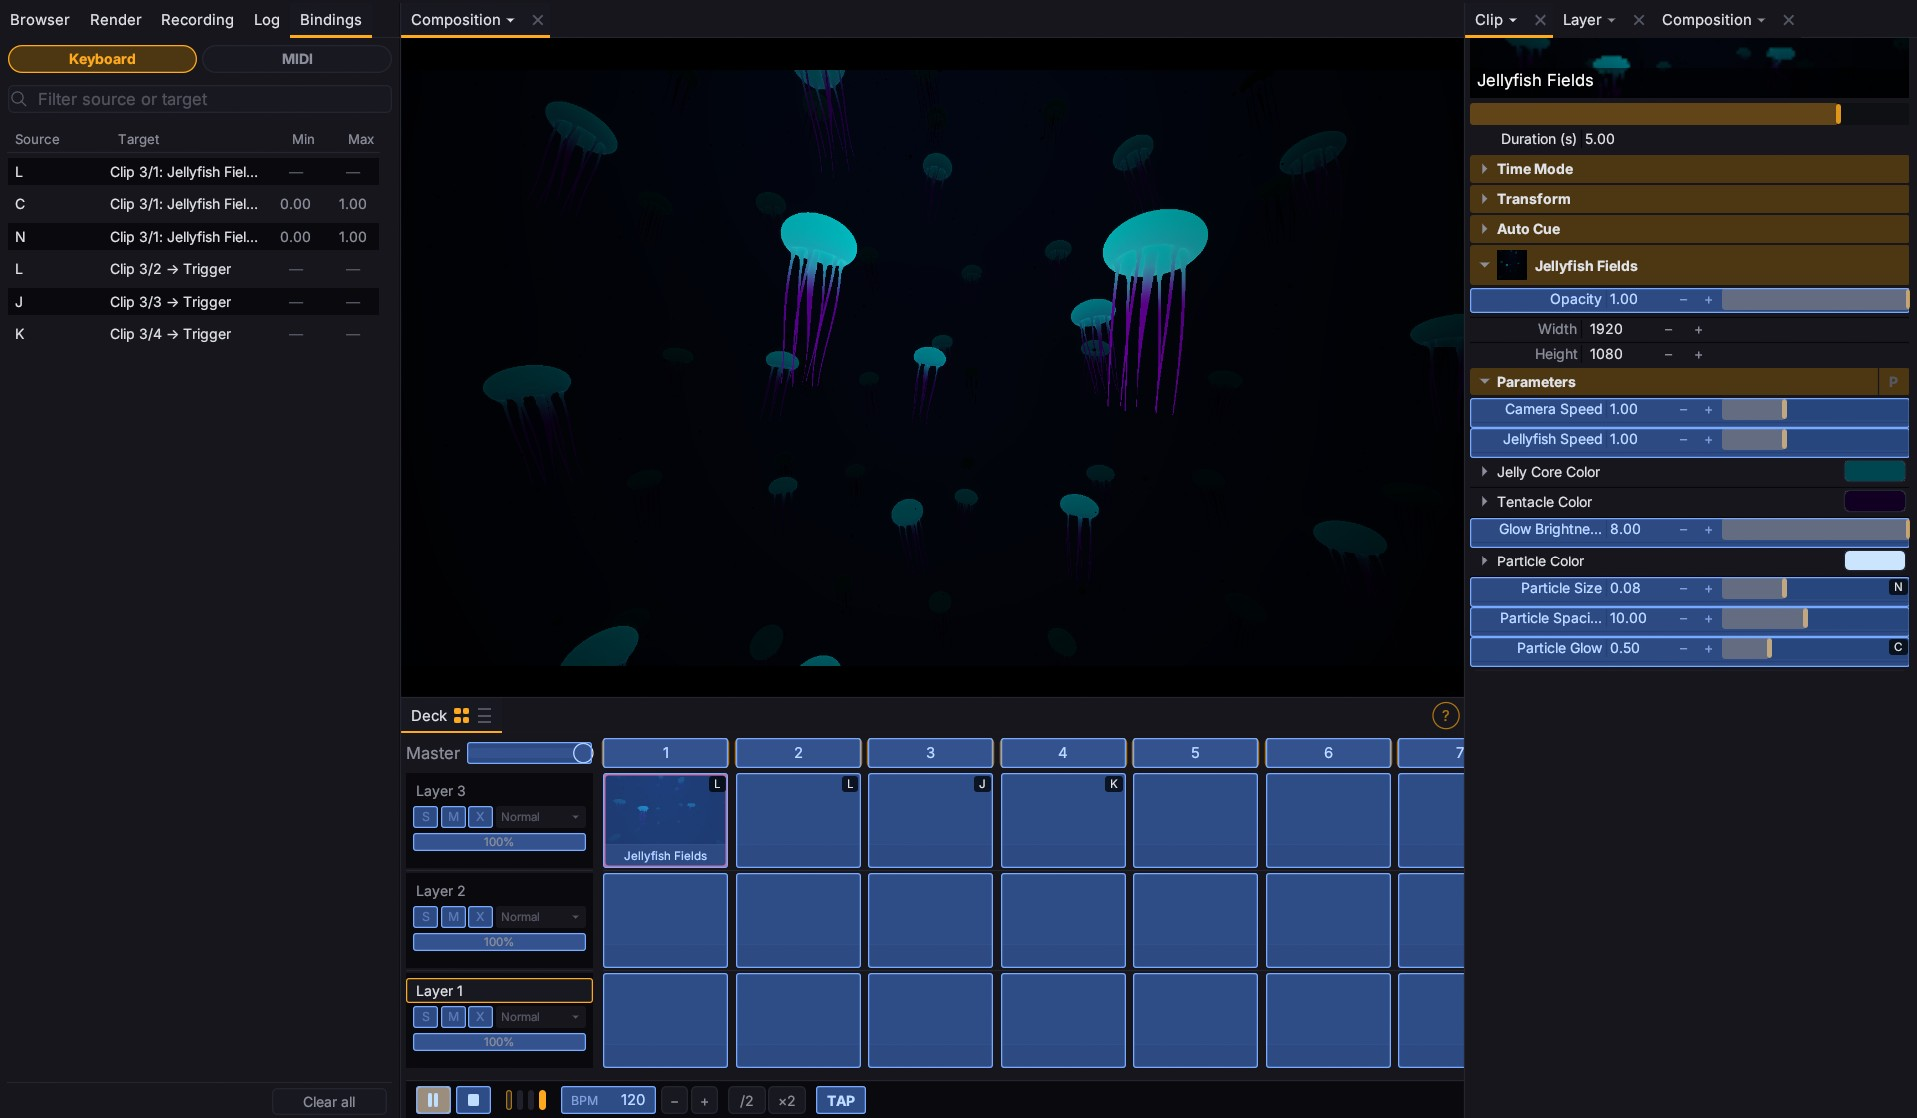
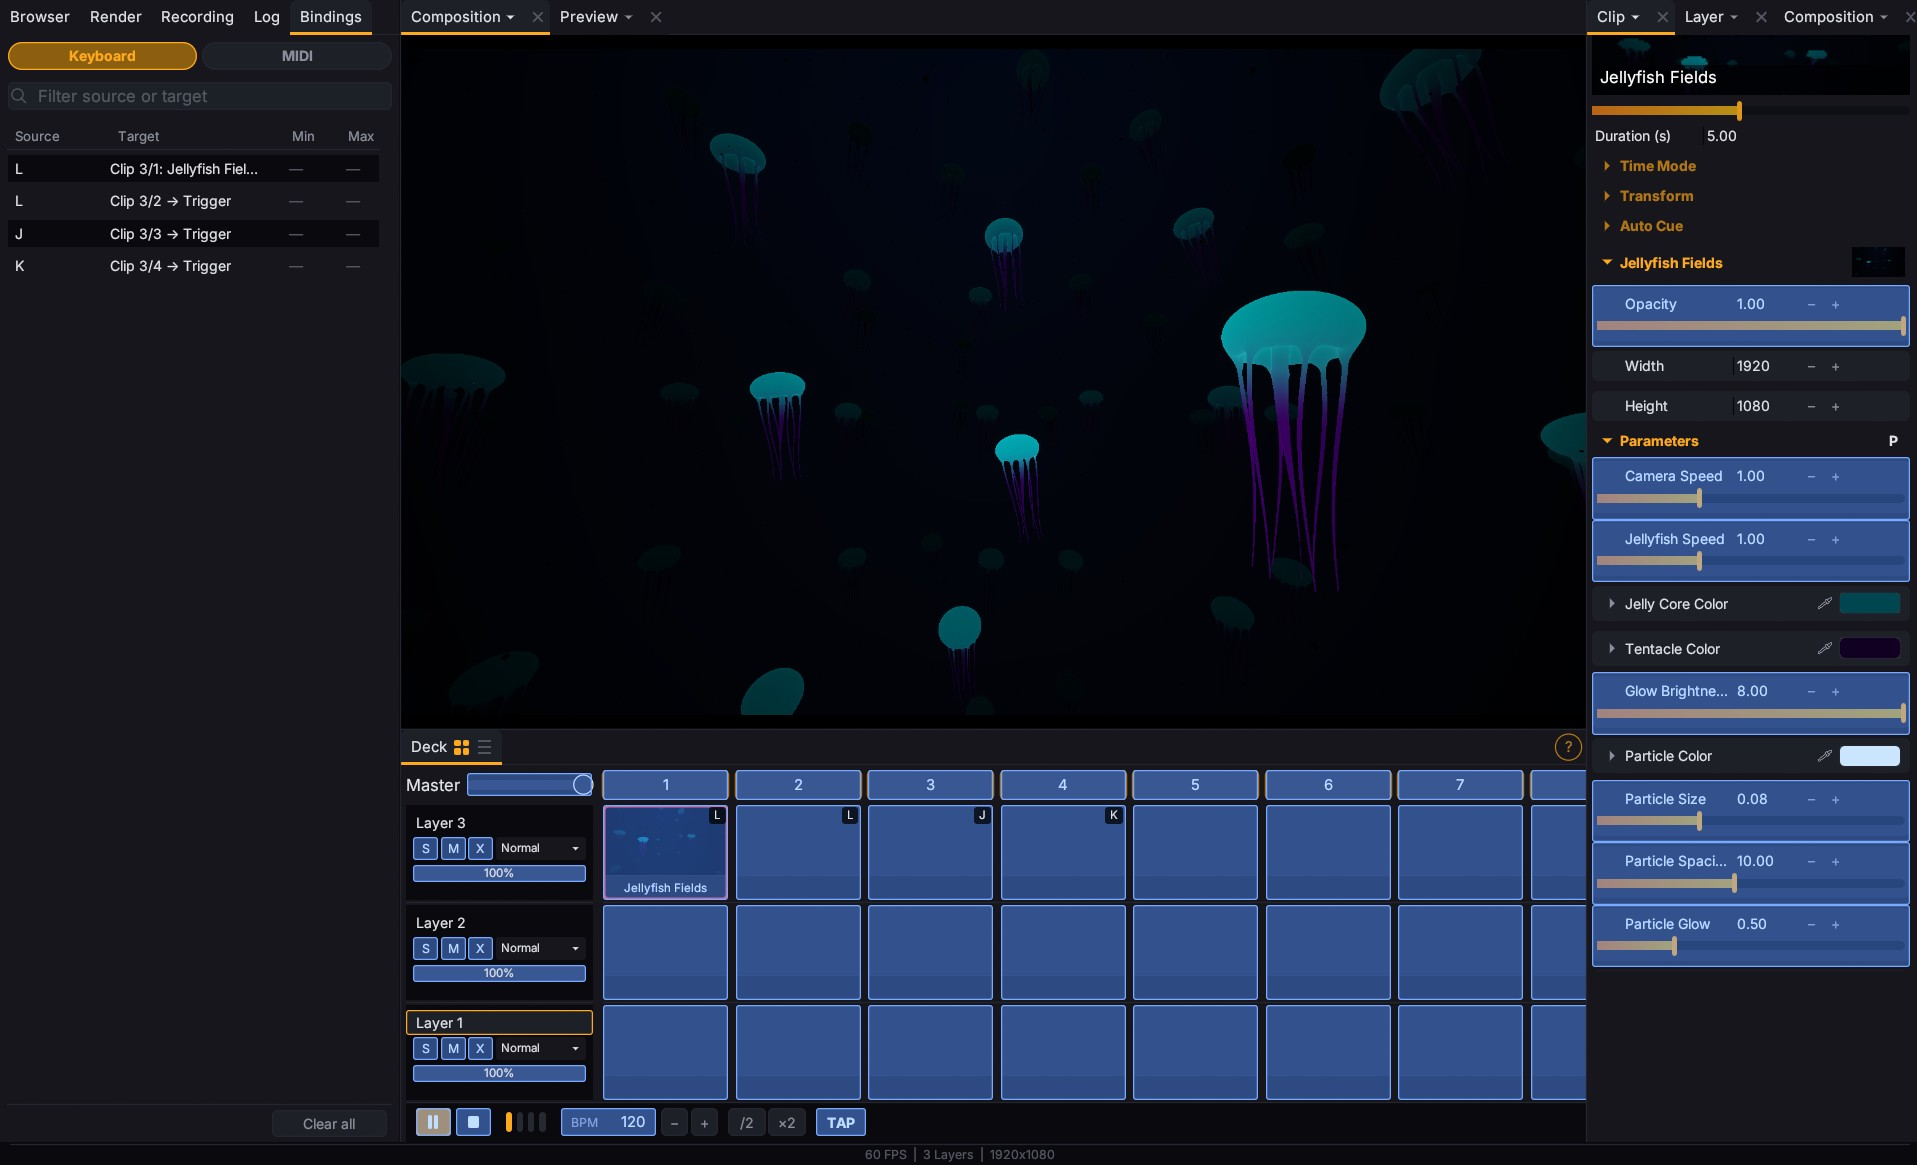
Update bindings showcase image and cache-bust

diff --git a/features.html b/features.html
@@ -208,7 +208,7 @@
           </p>
         </div>
         <figure class="showcase__visual showcase__visual--image">
-          <img src="assets/showcase-bindings.jpg" width="1917" height="1118" alt="The Fluence Bindings panel showing keyboard and MIDI bindings mapped to clip slots, with the bind-capture overlay highlighting controls in the layer deck." loading="lazy" />
+          <img src="assets/showcase-bindings.jpg?v=2" width="1917" height="1118" alt="The Fluence Bindings panel showing keyboard and MIDI bindings mapped to clip slots, with the bind-capture overlay highlighting controls in the layer deck." loading="lazy" />
         </figure>
       </div>
 

diff --git a/index.html b/index.html
@@ -203,7 +203,7 @@
           </p>
         </div>
         <figure class="showcase__visual showcase__visual--image">
-          <img src="assets/showcase-bindings.jpg" width="1917" height="1118" alt="The Fluence Bindings panel showing keyboard and MIDI bindings mapped to clip slots, with the bind-capture overlay highlighting controls in the layer deck." loading="lazy" />
+          <img src="assets/showcase-bindings.jpg?v=2" width="1917" height="1118" alt="The Fluence Bindings panel showing keyboard and MIDI bindings mapped to clip slots, with the bind-capture overlay highlighting controls in the layer deck." loading="lazy" />
         </figure>
       </div>
     </div>